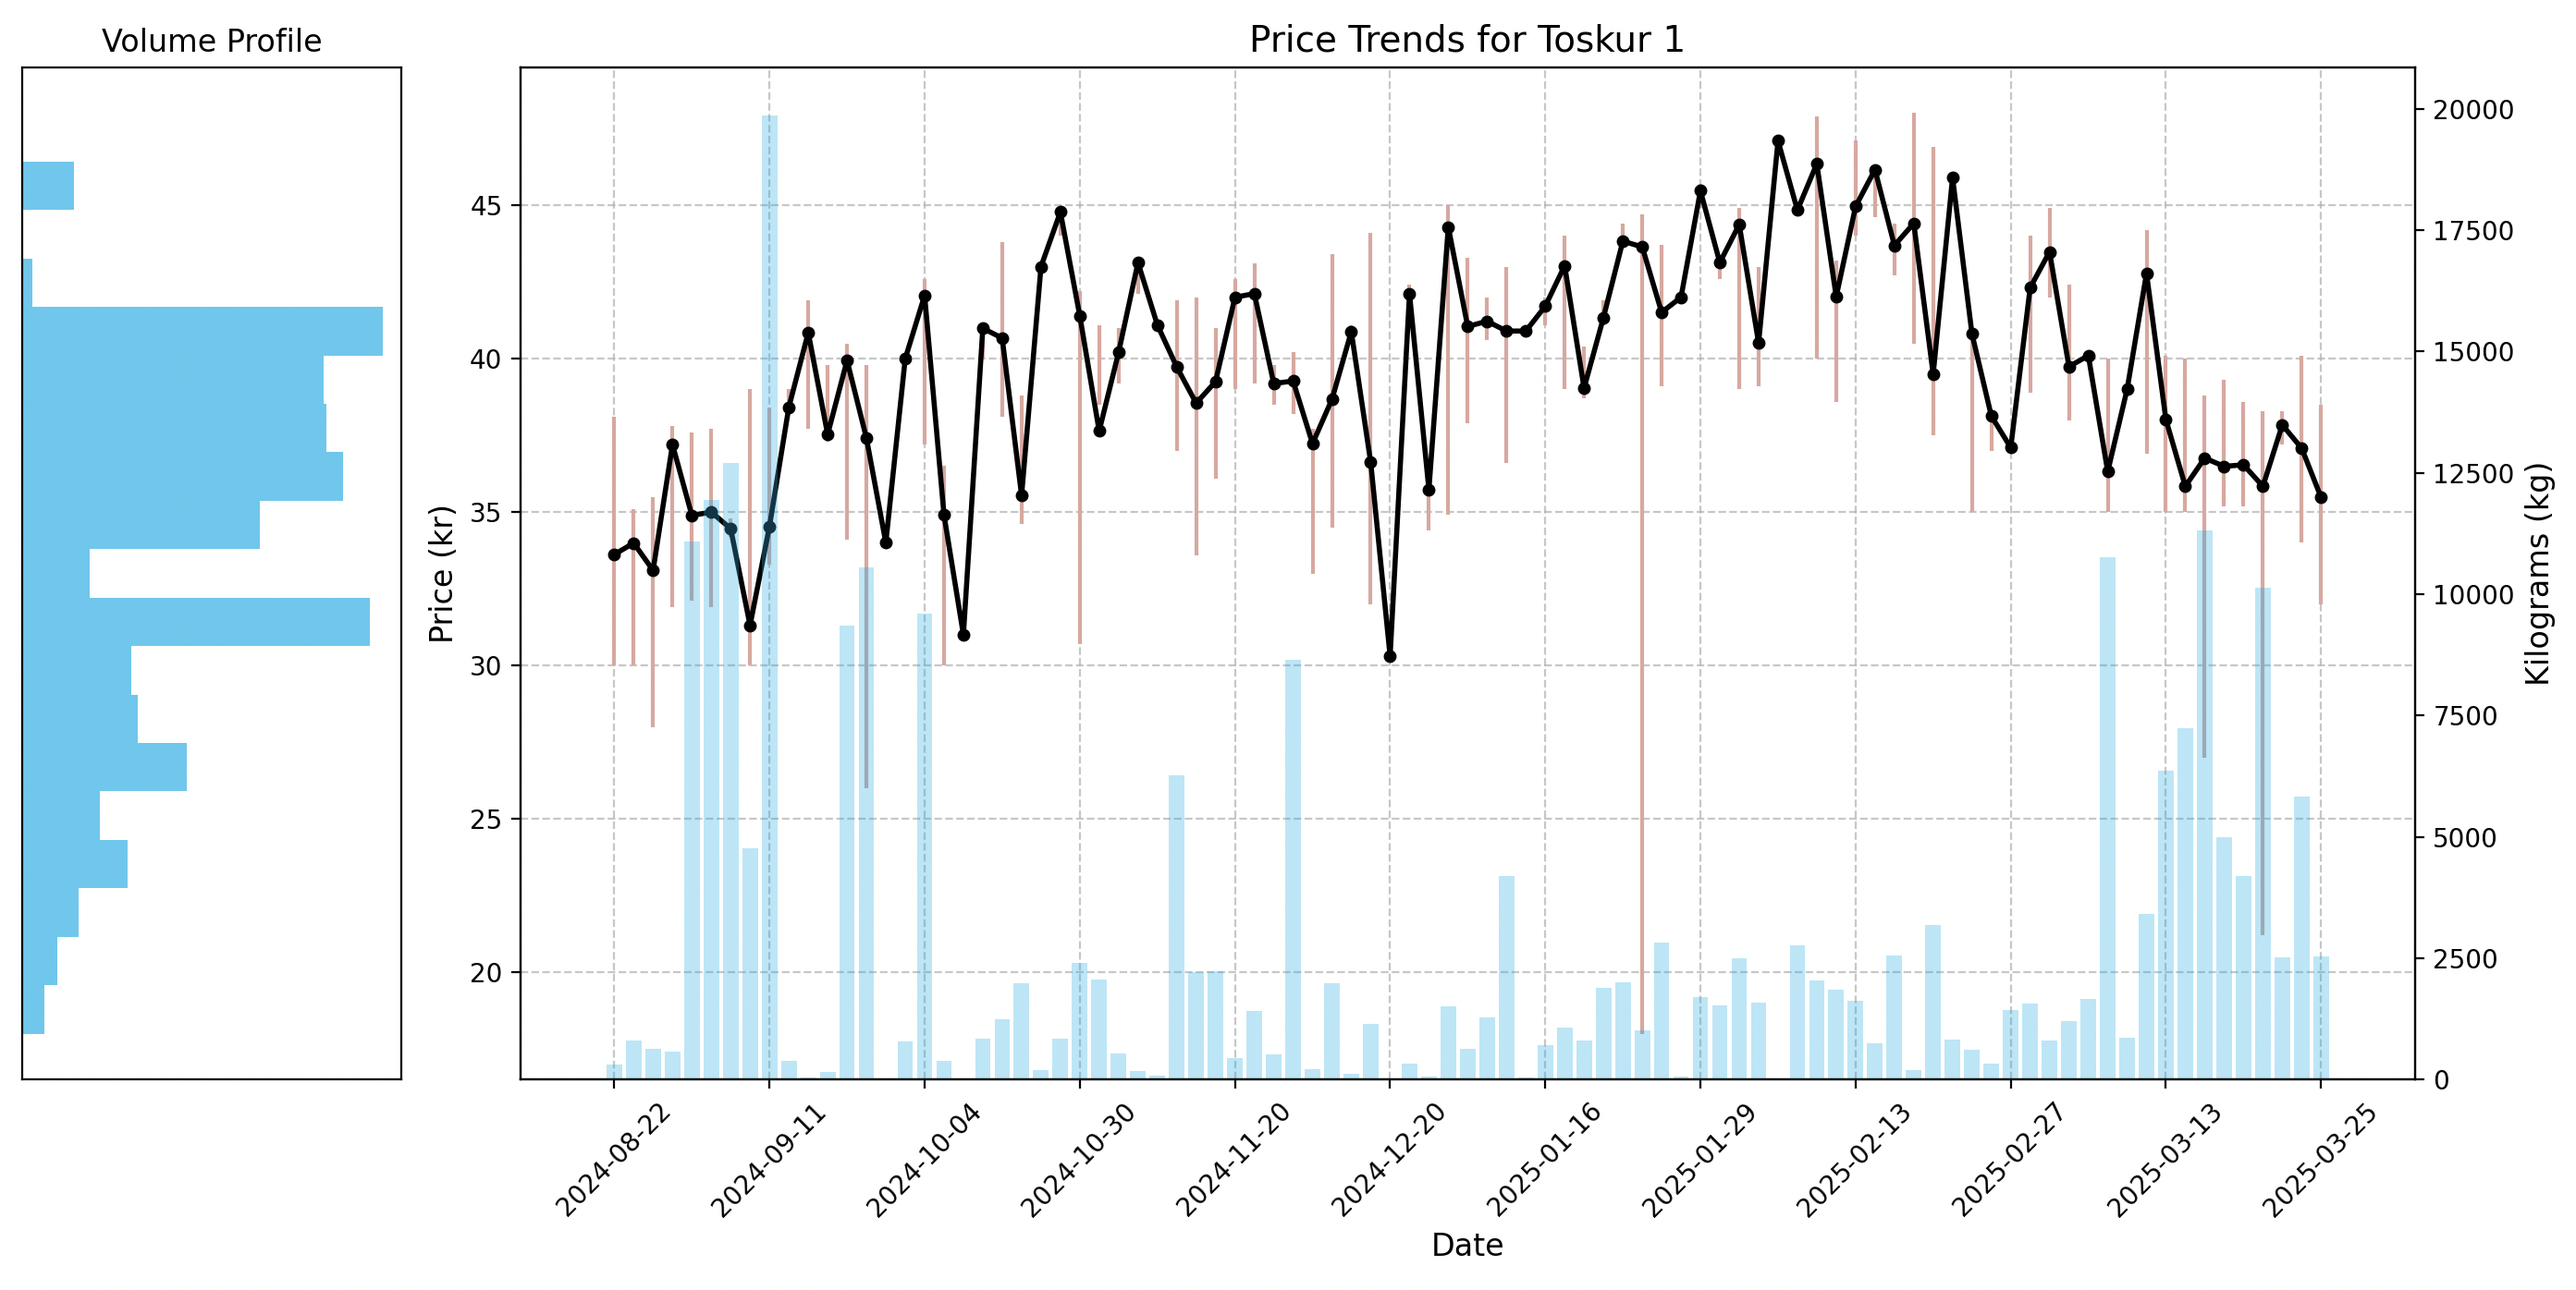
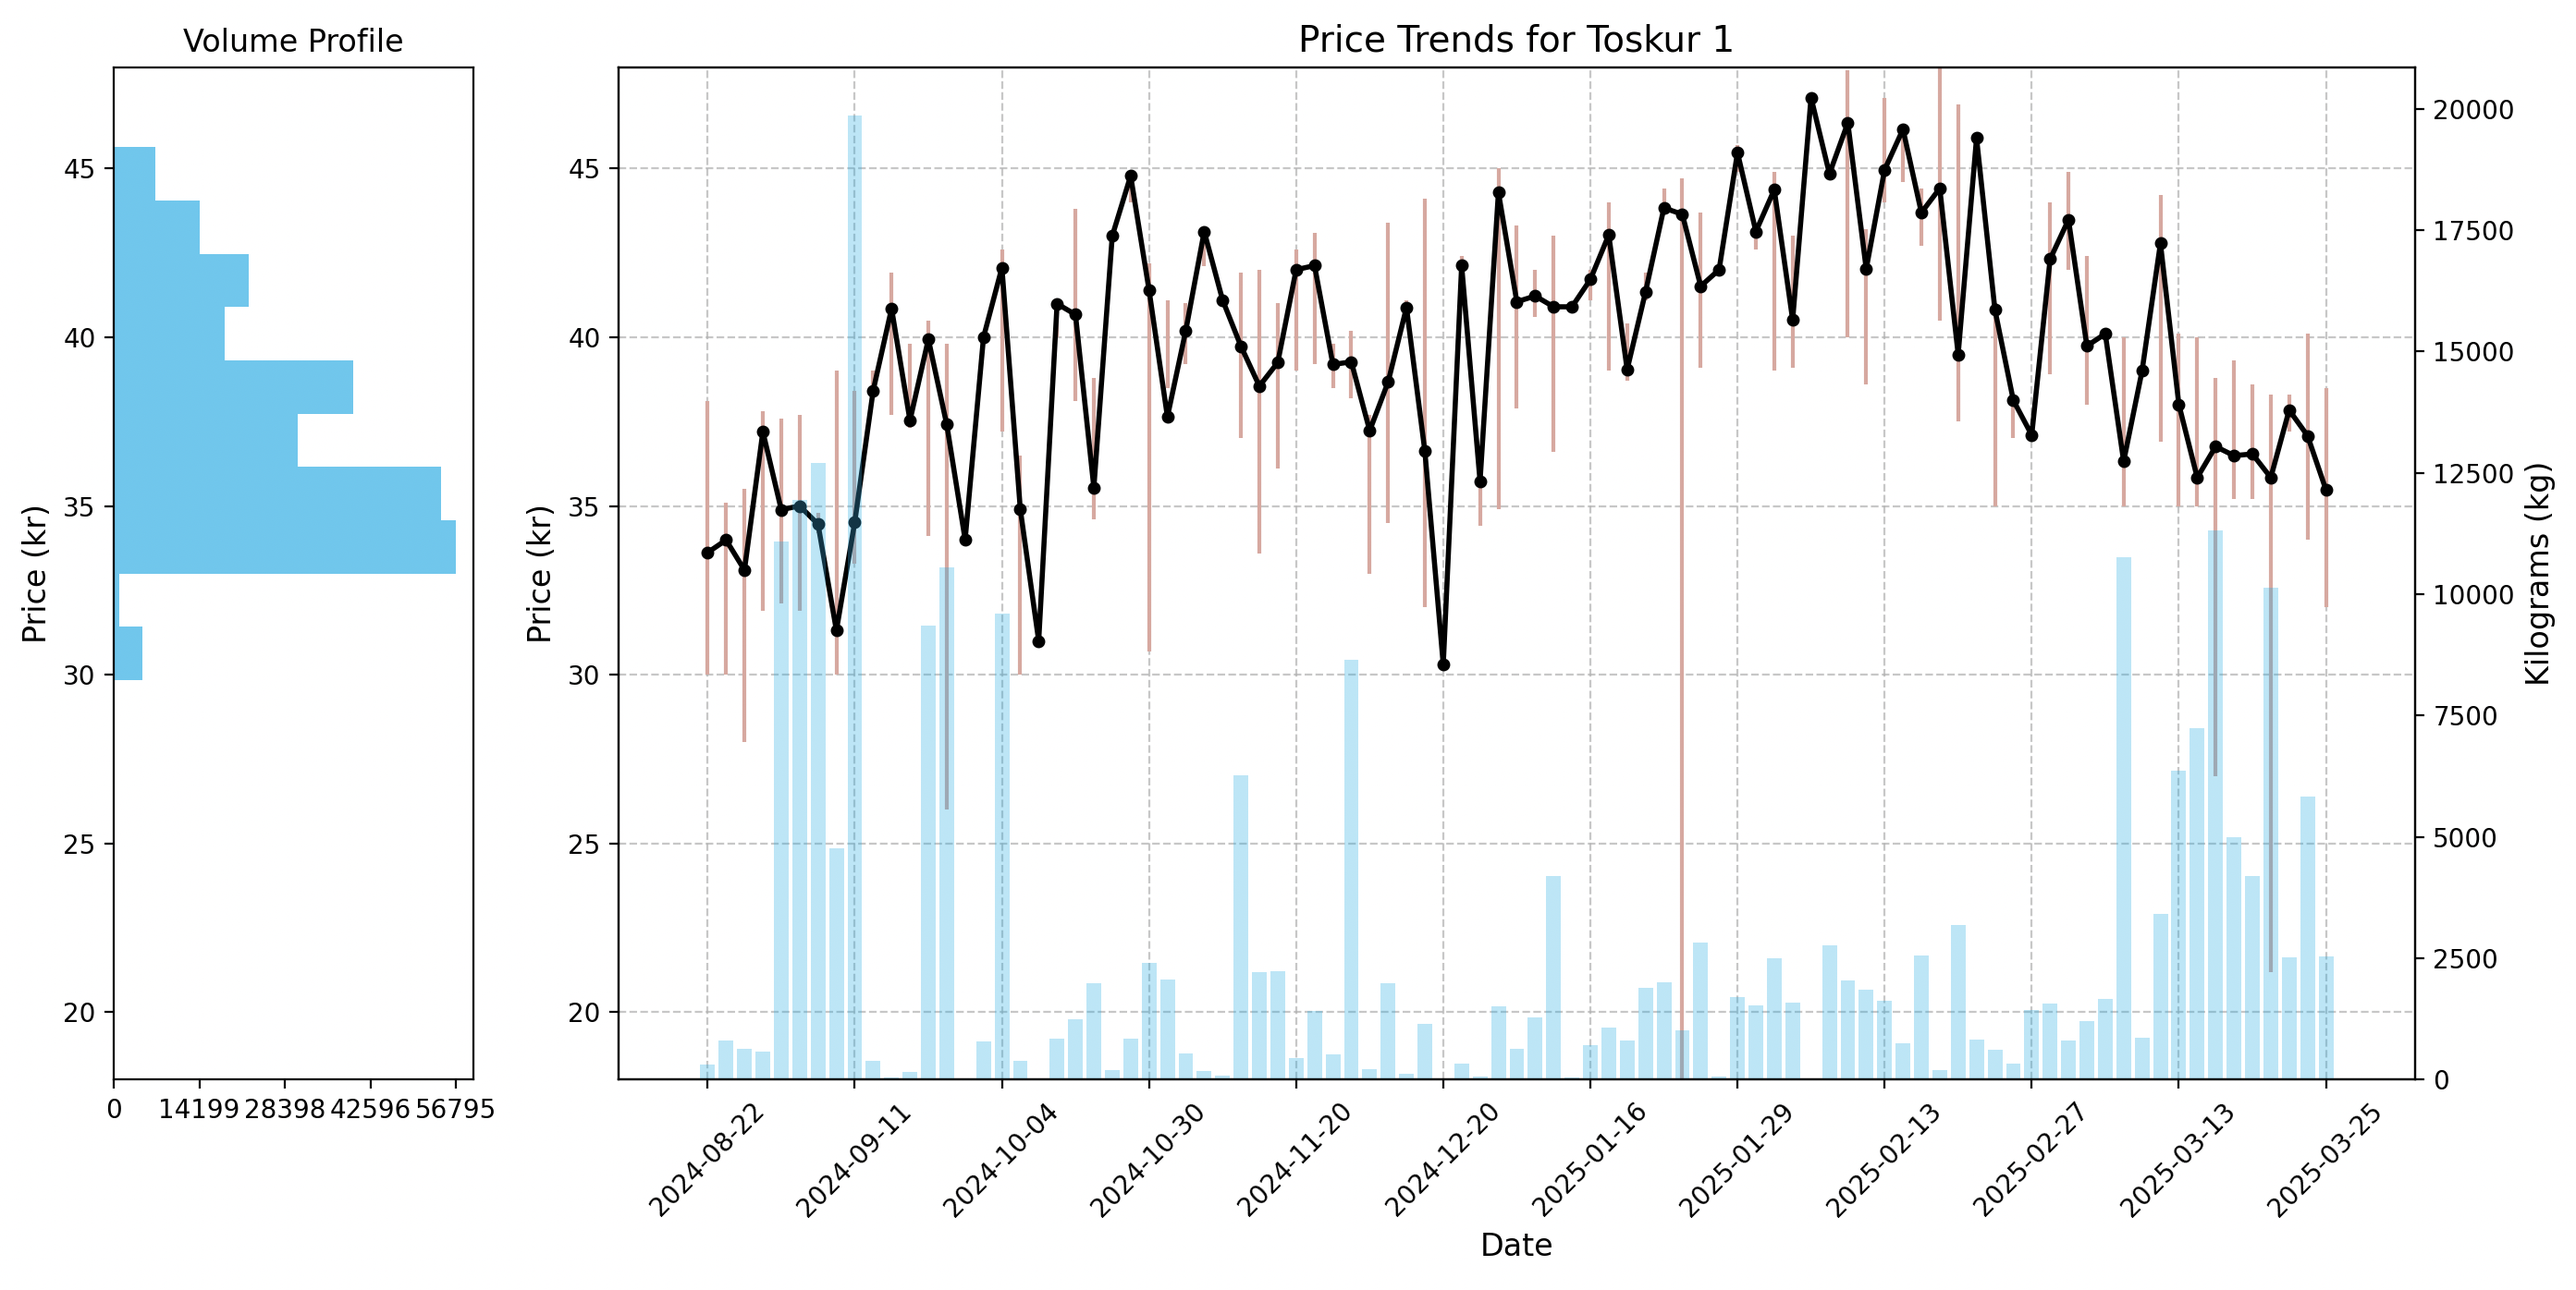
fix volume profile

diff --git a/fmf.py b/fmf.py
@@ -24,7 +24,7 @@ selected_years = [year.strip() for year in selected_years.split(',')]
 volume_profile_input = input("Show Volume Profile Y / N (Default: Y): ").strip() or "Y"
 volume_profile_active = volume_profile_input.lower() == "y"
 
-print(f"Plotting data for: {selected_type}, years {', '.join(selected_years)}, volume profile: {volume_profile_active}")
+print(f"Plotting data for: {selected_type}, years {', '.join(selected_years)}")
 
 data_frames = []
 for year in selected_years:
@@ -63,27 +63,31 @@ else:
     kg_values = selected_data['kg']
     date_labels = selected_data['date'].dt.strftime('%Y-%m-%d')
     
-    fig, axes = plt.subplots(1, 2 if volume_profile_active else 1, figsize=(14, 7), gridspec_kw={'width_ratios': [1, 5] if volume_profile_active else [1]})
+    y_min = min(min_prices.min(), avg_prices.min())
+    y_max = max(max_prices.max(), avg_prices.max())
     
     if volume_profile_active:
-        ax_vp, ax1 = axes
-        price_bins = np.linspace(min(avg_prices), max(avg_prices), num=20)
+        fig, (ax_vp, ax1) = plt.subplots(1, 2, figsize=(14, 7), gridspec_kw={'width_ratios': [1, 5]})
+        price_bins = np.linspace(y_min, y_max, num=20)
         volume_profile = np.histogram(avg_prices, bins=price_bins, weights=kg_values)[0]
         ax_vp.barh(price_bins[:-1], volume_profile, height=np.diff(price_bins), color='#00b2eb', alpha=0.7)
         ax_vp.invert_yaxis()
-        ax_vp.set_xticks([])
-        ax_vp.set_yticks([])
+        ax_vp.set_ylim(y_min, y_max)
+        ax_vp.set_xticks(np.linspace(min(volume_profile), max(volume_profile), num=5))
         ax_vp.set_title("Volume Profile", fontsize=12)
+        ax_vp.set_ylabel('Price (kr)', fontsize=12)
     else:
-        ax1 = axes
+        fig, ax1 = plt.subplots(figsize=(12, 7))
     
     ax1.vlines(indices, min_prices, max_prices, color='#dfa69e', linewidth=1.5, label='Min-Max Range')
     ax1.plot(indices, avg_prices, color='black', linewidth=2, marker='o', markersize=4, label='Avg Price')
+    ax1.set_ylim(y_min, y_max) 
     ax1.set_xlabel('Date', fontsize=12)
     ax1.set_ylabel('Price (kr)', fontsize=12, color='black')
     ax1.tick_params(axis='y', labelcolor='black')
     ax1.grid(True, linestyle='--', alpha=0.7)
     
+    # Volume bars
     ax2 = ax1.twinx()
     ax2.bar(indices, kg_values, alpha=0.3, color='#00b2eb', label='Kg', width=0.8)
     ax2.set_ylabel('Kilograms (kg)', fontsize=12, color='black')
